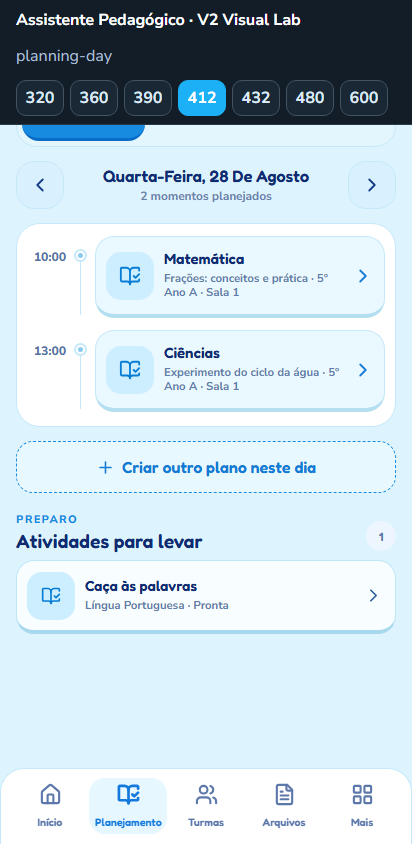
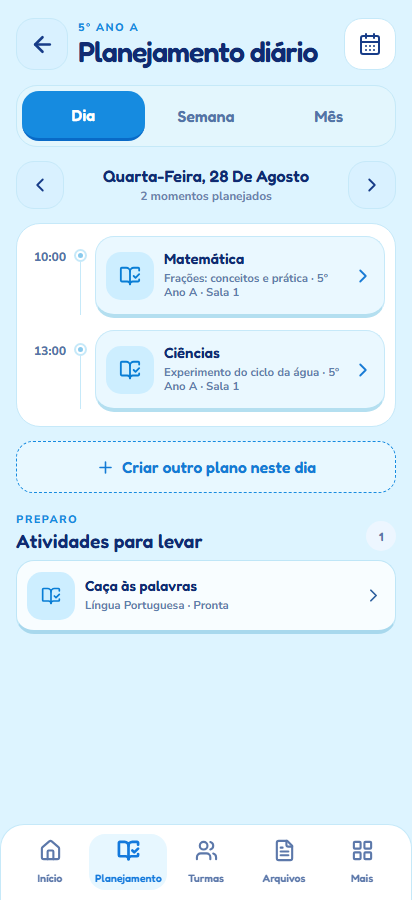
fix(v2): clarify untimed planning moments

diff --git a/src/v2/screens/PlanningDayV2.tsx b/src/v2/screens/PlanningDayV2.tsx
@@ -53,7 +53,7 @@ export function PlanningDayV2({ className = 'Sua turma', dateKey, plans, activit
     {offline && <div className="v2-planning-day__notice" role="status">Você está offline. Seus planos continuam disponíveis neste dispositivo.</div>}{error && <div className="v2-planning-day__notice is-error" role="alert"><span>{error}</span><button type="button" onClick={onRetry}>Tentar novamente</button></div>}{activityError && <div className="v2-planning-day__notice is-error" role="alert"><span>{activityError}</span><button type="button" onClick={onRetry}>Tentar novamente</button></div>}
     <div className="v2-planning-day__tabs" role="tablist" aria-label="Visão do planejamento"><button className="is-selected" role="tab" aria-selected="true" type="button">Dia</button><button role="tab" aria-selected="false" type="button" onClick={() => onViewChange('week')}>Semana</button><button role="tab" aria-selected="false" type="button" onClick={() => onViewChange('month')}>Mês</button></div>
     <div className="v2-planning-day__date-nav"><button className="v2-planning-day__date-arrow v2-pressable" type="button" onClick={() => onDateChange(-1)} aria-label="Dia anterior"><ChevronLeft size={22} /></button><div><strong>{formatDate(dateKey)}</strong><small>{rows.length ? `${rows.length} momento${rows.length === 1 ? '' : 's'} planejado${rows.length === 1 ? '' : 's'}` : 'Um dia de cada vez, com intenção'}</small></div><button className="v2-planning-day__date-arrow v2-pressable" type="button" onClick={() => onDateChange(1)} aria-label="Próximo dia"><ChevronRight size={22} /></button></div>
-    {loading ? <div className="v2-planning-day__state" role="status"><LoaderCircle className="is-spinning" size={25} /><strong>Carregando planejamento...</strong><p>Buscando os planos salvos para este dia.</p></div> : rows.length ? <section className="v2-planning-day__timeline" aria-label="Momentos planejados">{rows.map(({ plan, moment, time }) => <div className="v2-planning-day__timeline-row" key={`${plan.id}-${('id' in moment ? moment.id : '') || moment.titulo}`}><div className="v2-planning-day__hour"><time>{time}</time><span /></div><button className="v2-planning-day__plan v2-pressable" type="button" onClick={() => onOpenPlan(plan)}><span className="v2-planning-day__plan-icon"><BookOpenCheck size={22} /></span><span><strong>{moment.titulo || plan.tituloTema || 'Plano de aula'}</strong><small>{plan.tituloTema || 'Plano de aula'}{moment.descricao ? ` · ${moment.descricao}` : ''}</small></span><ChevronRight size={22} /></button></div>)}</section> : <div className="v2-planning-day__state"><BookOpenCheck size={34} /><strong>Nenhum plano neste dia</strong><p>Comece organizando o próximo momento da sua aula.</p><button className="v2-primary-action v2-pressable" type="button" onClick={onCreatePlan}><Plus size={19} /> Criar plano de aula</button></div>}
+    {loading ? <div className="v2-planning-day__state" role="status"><LoaderCircle className="is-spinning" size={25} /><strong>Carregando planejamento...</strong><p>Buscando os planos salvos para este dia.</p></div> : rows.length ? <section className="v2-planning-day__timeline" aria-label="Momentos planejados">{rows.map(({ plan, moment, time }) => { const displayTime = time || 'Sem horário'; return <div className="v2-planning-day__timeline-row" key={`${plan.id}-${('id' in moment ? moment.id : '') || moment.titulo}`}><div className="v2-planning-day__hour"><time aria-label={displayTime}>{displayTime}</time><span /></div><button className="v2-planning-day__plan v2-pressable" type="button" onClick={() => onOpenPlan(plan)}><span className="v2-planning-day__plan-icon"><BookOpenCheck size={22} /></span><span><strong>{moment.titulo || plan.tituloTema || 'Plano de aula'}</strong><small>{plan.tituloTema || 'Plano de aula'}{moment.descricao ? ` · ${moment.descricao}` : ''}</small></span><ChevronRight size={22} /></button></div>; })}</section> : <div className="v2-planning-day__state"><BookOpenCheck size={34} /><strong>Nenhum plano neste dia</strong><p>Comece organizando o próximo momento da sua aula.</p><button className="v2-primary-action v2-pressable" type="button" onClick={onCreatePlan}><Plus size={19} /> Criar plano de aula</button></div>}
     {rows.length > 0 && <button className="v2-planning-day__add v2-pressable" type="button" onClick={onCreatePlan}><Plus size={19} /> Criar outro plano neste dia</button>}
     {visibleActivities.length > 0 && <section className="v2-planning-day__activities" aria-labelledby="planning-day-activities-title"><div className="v2-planning-day__activities-heading"><div><span className="v2-eyebrow">PREPARO</span><h2 id="planning-day-activities-title">Atividades para levar</h2></div><span>{visibleActivities.length}</span></div>{visibleActivities.map((activity) => <button className="v2-planning-day__activity v2-pressable" type="button" key={activity.id} onClick={() => onOpenActivity(activity)}><span className="v2-planning-day__plan-icon"><BookOpenCheck size={20} /></span><span><strong>{activity.titulo}</strong><small>{activity.disciplina || 'Atividade pedagógica'} · {activity.status === 'pronta' ? 'Pronta' : 'Rascunho'}</small></span><ChevronRight size={21} /></button>)}</section>}
     <nav className="v2-planning-day__bottom-nav" aria-label="Navegação principal">{navItems.map(({ id, label, icon: Icon }) => { const selected = id === activeTab; return <button key={id} type="button" className={`v2-planning-day__nav-item v2-pressable${selected ? ' is-selected' : ''}`} aria-current={selected ? 'page' : undefined} onClick={() => onTabChange(id)}><Icon size={23} strokeWidth={selected ? 2.8 : 2.2} /><span>{label}</span></button>; })}</nav>
